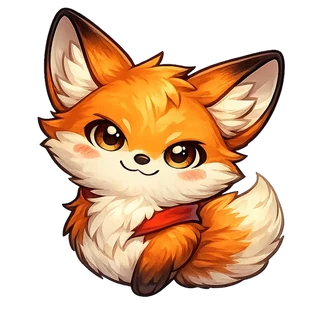
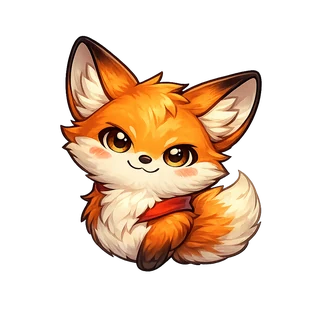
Normalize emblem art framing so every medallion reads the same size
Sizing each artwork by its full alpha extent let glow decide the frame:
pieces with a big aura (Cosmic Mind, Phoenix) rendered noticeably
smaller than pieces without one. Framing is now driven by the SOLID
body — centroid and radius both computed from opaque pixels, so a
one-sided glow can neither shrink the subject nor pull it off-centre —
with a radial alpha fade at the frame edge so any glow beyond it
dissolves instead of cutting. All 25 artworks reprocessed from source;
the tile renders art at 88% of the disc (was 84%).

Claude-Session: https://claude.ai/code/session_013zRSdbVnEVMQYuTRYzx831

diff --git a/src/components/progression/PlayerAvatar.jsx b/src/components/progression/PlayerAvatar.jsx
@@ -68,7 +68,7 @@ export function EmblemTile({ emblem, fontSize, breathe = false }) {
         {emblem.art ? (
           <img src={emblem.art} alt={emblem.name} draggable={false}
             className={`relative ${breathe ? 'medal-breathe' : ''}`}
-            style={{ width: '84%', height: '84%', objectFit: 'contain', filter: 'drop-shadow(0 2px 2px rgba(0,0,0,0.5))' }} />
+            style={{ width: '88%', height: '88%', objectFit: 'contain', filter: 'drop-shadow(0 2px 2px rgba(0,0,0,0.5))' }} />
         ) : (
           <span className={`relative ${breathe ? 'medal-breathe' : ''}`}
             style={{ fontSize, lineHeight: 1, filter: 'drop-shadow(0 2px 2px rgba(0,0,0,0.5))' }}>
